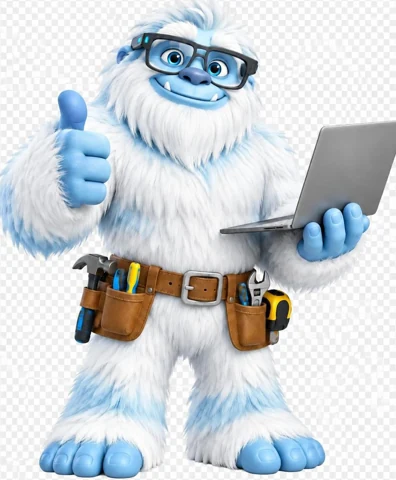
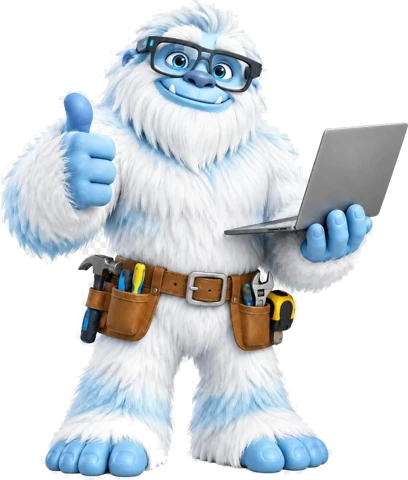
Make the yeti mascot background transparent
The yeti's backdrop was baked into the JPEG and its white fur was too
close to it to cut out with a plain colour threshold. Remove only
neutral-grey backdrop pixels reached from the edge, then trim checker
remnants at the outline. Drop the light card it sat on, so it matches
the snowflake, penguin and robot.

diff --git a/index.html b/index.html
@@ -86,9 +86,8 @@ header .logo img { flex:none; }
 #hero .btn.alt { background:transparent; color:var(--sst-frost); border-color:var(--sst-ice); }
 .mascot-hero { display:block; width:150px; height:auto; margin:0 auto 18px; filter:drop-shadow(0 6px 18px rgba(161,234,255,.35)); }
 @media(max-width:600px){.mascot-hero{width:120px}}
-.mascot-panel { display:block; width:150px; height:auto; margin:0 auto 18px; padding:10px; border-radius:18px; background:#f4f8fb; box-shadow:var(--shadow); }
 .mascot-side { display:block; width:130px; height:auto; margin:0 auto 16px; filter:drop-shadow(0 6px 18px rgba(0,184,217,.3)); }
-@media(max-width:600px){.mascot-panel{width:120px}.mascot-side{width:110px}}
+@media(max-width:600px){.mascot-side{width:110px}}
 .card { border-radius:var(--sst-radius); }
 :where(a,button,input,summary):focus-visible { outline:3px solid var(--sst-focus); outline-offset:3px; }
 </style>  <link rel="stylesheet" href="/store-theme.css">
@@ -108,7 +107,7 @@ header .logo img { flex:none; }
 <a class="btn" href="#products">Browse services</a> <a class="btn alt" href="/coin.html">See the coin</a></div></section>
 
 <section id="products"><div class="container">
-<img class="mascot-panel" src="/img/mascots/yeti-toolbelt.webp" width="396" height="480" alt="Snow Seasons Tech yeti mascot in glasses and a tool belt, giving a thumbs up and holding a laptop" loading="lazy" decoding="async">
+<img class="mascot-side" src="/img/mascots/yeti-toolbelt.webp" width="408" height="480" alt="Snow Seasons Tech yeti mascot in glasses and a tool belt, giving a thumbs up and holding a laptop" loading="lazy" decoding="async">
 <h2>Services</h2><p class="sub">One-time integration projects and monthly managed plans.</p>
 <div class="grid" id="product-grid"></div></div></section>
 
